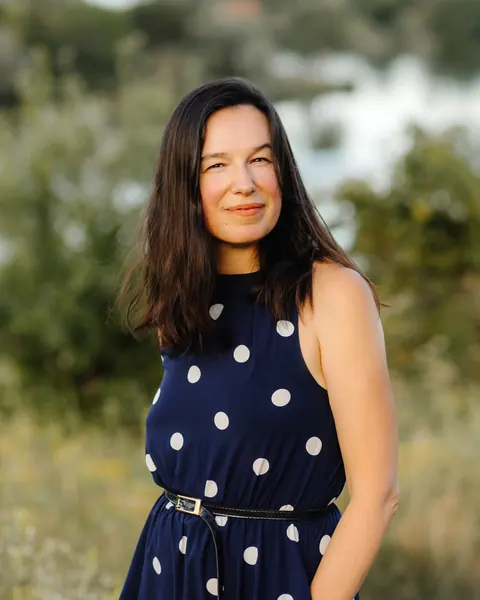
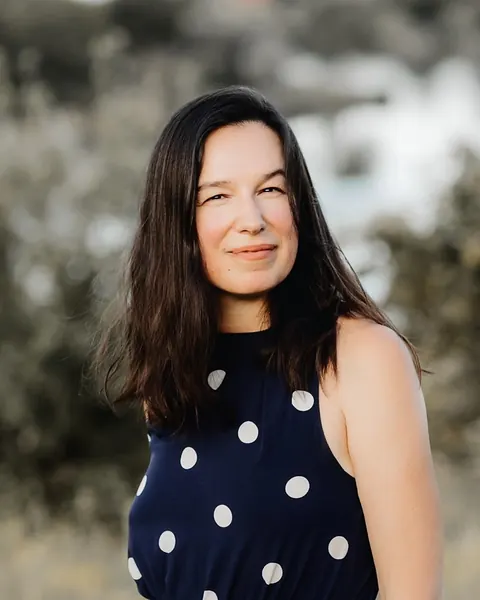
Use retouched photos of Євгенія and Карина
Cards and hero deck use the new 4:5 photos (WebP 480/960); the
flow avatars use the square versions at 160px.

Claude-Session: https://claude.ai/code/session_01AVM4ubnHWnm1EBoeHs4U2q

diff --git a/blocks/09-team.html b/blocks/09-team.html
@@ -865,7 +865,7 @@
             <h3 class="tm-step__title">Документ потрапляє в облік</h3>
             <p class="tm-step__text">Збираємо й перевіряємо рахунки, накладні, акти та касові операції, щоб нічого не загубилося.</p>
             <ul class="tm-step__who" role="list">
-              <li class="tm-who"><span class="tm-who__pic"><img src="../assets/images/team-karyna-480.webp" width="480" height="600" alt="" loading="lazy"></span>Карина</li>
+              <li class="tm-who"><span class="tm-who__pic"><img src="../assets/images/team-karyna-sq.webp" width="160" height="160" alt="" loading="lazy"></span>Карина</li>
               <li class="tm-who"><span class="tm-who__pic tm-who__pic--ini" aria-hidden="true">НГ</span>Надія</li>
             </ul>
             <span class="tm-step__stamp" aria-hidden="true">ПРИЙНЯТО</span>
@@ -893,7 +893,7 @@
             <h3 class="tm-step__title">Готуємо й подаємо звітність</h3>
             <p class="tm-step__text">Ведемо облік, готуємо податкову, статистичну звітність і звіти до фондів.</p>
             <ul class="tm-step__who" role="list">
-              <li class="tm-who"><span class="tm-who__pic"><img src="../assets/images/team-evgenia-480.webp" width="480" height="600" alt="" loading="lazy"></span>Євгенія</li>
+              <li class="tm-who"><span class="tm-who__pic"><img src="../assets/images/team-evgenia-sq.webp" width="160" height="160" alt="" loading="lazy"></span>Євгенія</li>
             </ul>
             <span class="tm-step__stamp" aria-hidden="true">ПОДАНО</span>
           </li>

diff --git a/team.html b/team.html
@@ -387,7 +387,7 @@
             <h3 class="tm-step__title">Документ потрапляє в облік</h3>
             <p class="tm-step__text">Збираємо й перевіряємо рахунки, накладні, акти та касові операції, щоб нічого не загубилося.</p>
             <ul class="tm-step__who" role="list">
-              <li class="tm-who"><span class="tm-who__pic"><img src="assets/images/team-karyna-480.webp" width="480" height="600" alt="" loading="lazy"></span>Карина</li>
+              <li class="tm-who"><span class="tm-who__pic"><img src="assets/images/team-karyna-sq.webp" width="160" height="160" alt="" loading="lazy"></span>Карина</li>
               <li class="tm-who"><span class="tm-who__pic tm-who__pic--ini" aria-hidden="true">НГ</span>Надія</li>
             </ul>
             <span class="tm-step__stamp" aria-hidden="true">ПРИЙНЯТО</span>
@@ -415,7 +415,7 @@
             <h3 class="tm-step__title">Готуємо й подаємо звітність</h3>
             <p class="tm-step__text">Ведемо облік, готуємо податкову, статистичну звітність і звіти до фондів.</p>
             <ul class="tm-step__who" role="list">
-              <li class="tm-who"><span class="tm-who__pic"><img src="assets/images/team-evgenia-480.webp" width="480" height="600" alt="" loading="lazy"></span>Євгенія</li>
+              <li class="tm-who"><span class="tm-who__pic"><img src="assets/images/team-evgenia-sq.webp" width="160" height="160" alt="" loading="lazy"></span>Євгенія</li>
             </ul>
             <span class="tm-step__stamp" aria-hidden="true">ПОДАНО</span>
           </li>
